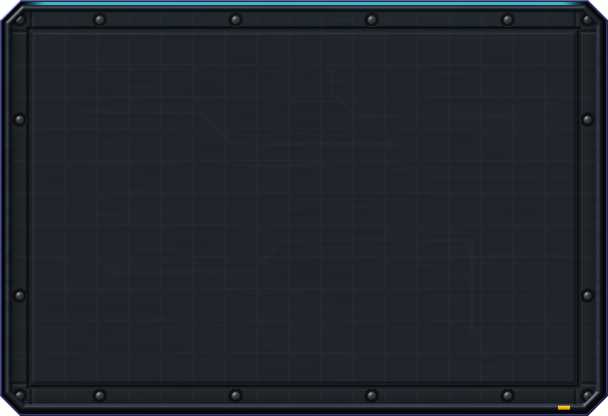
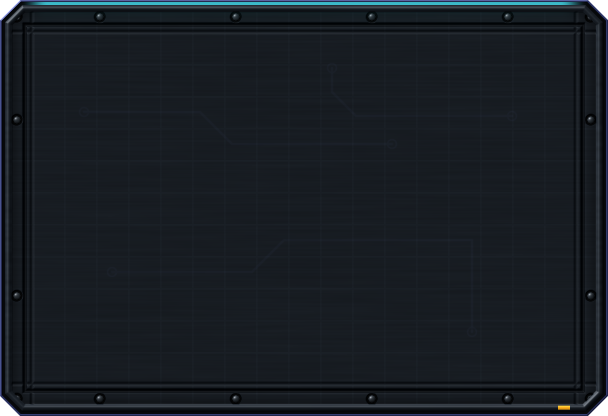
Theme textures: tests for determinism, the 512 KB budget, both shipped copies, seamless repeats, the client's margins and 4.5:1 text on every material; sci-fi plates opaque with their bolts and seam inside the frame, the key's glow inside its rim

Changed region(s): [[0.0312, 0.0312, 0.9688, 0.9688]]

diff --git a/tests/Tabletop.ThemeTextures.Tests/ThemeTextureTests.cs b/tests/Tabletop.ThemeTextures.Tests/ThemeTextureTests.cs
@@ -1,0 +1,136 @@
+using Tabletop.Client.Core;
+using Tabletop.TableTextures;
+
+namespace Tabletop.ThemeTextures.Tests;
+
+public class ThemeTextureTests
+{
+    static readonly string Root = Path.GetFullPath(Path.Combine(AppContext.BaseDirectory, "../../../../.."));
+    public static TheoryData<string, string, int> Files { get { var d = new TheoryData<string, string, int>(); foreach (var s in Themes.All) foreach (var k in Themes.Scales) d.Add(s.Theme, s.Name, k); return d; } }
+    public static TheoryData<string> Ids => new(UiThemes.All.Select(t => t.Id));
+    static Sheet Named(string theme, string name) => Themes.All.Single(s => s.Theme == theme && s.Name == name);
+
+    [Fact]
+    public void The_generator_draws_the_same_image_every_time()
+    {
+        foreach (var sheet in new[] { Named("fantasy", "button"), Named("scifi", "input") })
+            Assert.Equal(sheet.Render(1), sheet.Render(1));
+    }
+
+    /// <summary>The client's and the web app's copies are the same file, within the size budget, and the generator's output (a step per
+    /// channel allowed: MathF's last bits differ between CPUs).</summary>
+    [Theory, MemberData(nameof(Files))]
+    public void The_shipped_image_is_the_generators_output_and_small(string theme, string name, int scale)
+    {
+        var sheet = Named(theme, name);
+        var client = File.ReadAllBytes(Path.Combine(Root, Themes.Client, theme, sheet.File(scale)));
+        Assert.Equal(client, File.ReadAllBytes(Path.Combine(Root, Themes.Web, theme, sheet.File(scale))));
+        Assert.True(client.Length < 512 * 1024, $"{theme}/{sheet.File(scale)} is {client.Length} bytes");
+        var (w, h, shipped) = Png.Read(client);
+        Assert.Equal((sheet.Width * scale, sheet.Height * scale), (w, h));
+        var fresh = sheet.Render(scale); var off = 0;
+        for (var i = 0; i < fresh.Length; i++) if (Math.Abs(fresh[i] - shipped[i]) > 1) off++;
+        Assert.True(off < fresh.Length / 1000, $"{theme}/{sheet.File(scale)} is stale ({off} bytes differ): run scripts/theme-textures");
+    }
+
+    /// <summary>A nine-patch's repeated parts join: the column (row) at the end of the centre differs from the one at its start no more
+    /// than neighbouring columns inside it do. A tile wraps the same way.</summary>
+    [Theory, MemberData(nameof(Ids))]
+    public void Repeated_parts_join_without_a_seam(string id)
+    {
+        foreach (var sheet in Themes.All.Where(s => s.Theme == id && s.Use != Use.Stretch))
+        {
+            var px = sheet.Render(1); int w = sheet.Width, h = sheet.Height, m = sheet.Margin;
+            float Diff(Func<int, int> a, Func<int, int> b, int n, bool column, int from = 0)
+            {
+                var sum = 0f;
+                for (var i = from; i < n; i++)
+                {
+                    var (ka, kb) = column ? ((i * w + a(i)) * 4, (i * w + b(i)) * 4) : ((a(i) * w + i) * 4, (b(i) * w + i) * 4);
+                    for (var c = 0; c < 4; c++) sum += Math.Abs(px[ka + c] - px[kb + c]);
+                }
+                return sum / (n - from);
+            }
+            if (sheet.Use == Use.Tile)
+            {
+                // A tile wraps: its last column beside its first differs no more than two neighbours inside it.
+                var seamX = Diff(_ => w - 1, _ => 0, h, true); var insideX = Diff(_ => w / 2 - 1, _ => w / 2, h, true);
+                var seamY = Diff(_ => h - 1, _ => 0, w, false); var insideY = Diff(_ => h / 2 - 1, _ => h / 2, w, false);
+                Assert.True(seamX <= insideX * 2.5f + 8, $"{id}/{sheet.Name}: across {seamX} vs {insideX}");
+                Assert.True(seamY <= insideY * 2.5f + 8, $"{id}/{sheet.Name}: down {seamY} vs {insideY}");
+                continue;
+            }
+            // A face stretched top to bottom (sci-fi's glass) repeats only across.
+            var stretchedDown = sheet.Name.StartsWith("button") && UiThemes.All.Single(t => t.Id == id).Materials.ButtonStretch;
+            // A nine-patch repeats its centre from column m to w − m: the column that starts the next repeat (the right edge's first, which
+            // Godot and the browser draw after the last repeat) is the centre's first, and the same down. Deliberate joints (a plank end, a
+            // plate seam) repeat with it.
+            for (var k = 0; k < 2; k++)
+            {
+                Assert.True(Diff(_ => m + k, _ => w - m + k, h - m, true, m) <= 6, $"{id}/{sheet.Name}: column {m + k} against {w - m + k}");
+                if (!stretchedDown) Assert.True(Diff(_ => m + k, _ => h - m + k, w - m, false, m) <= 6, $"{id}/{sheet.Name}: row {m + k} against {h - m + k}");
+            }
+        }
+    }
+
+    [Theory, MemberData(nameof(Ids))]
+    public void The_client_reads_each_image_with_its_sheets_margin_and_inset(string id)
+    {
+        var m = UiThemes.All.Single(t => t.Id == id).Materials;
+        foreach (var image in m.NinePatches)
+        {
+            var sheet = Named(id, Path.GetFileNameWithoutExtension(image.Path));
+            Assert.Equal((Use.NinePatch, sheet.Margin, sheet.Inset), (sheet.Use, image.Margin, image.Inset));
+        }
+        Assert.Equal(Named(id, "backdrop-tile").Width, m.TileSize);
+    }
+
+    static double Lin(double c) => c <= 0.04045 ? c / 12.92 : Math.Pow((c + 0.055) / 1.055, 2.4);
+    static double Luminance(Rgba c) => 0.2126 * Lin(c.R) + 0.7152 * Lin(c.G) + 0.0722 * Lin(c.B);
+
+    /// <summary>The lightest and darkest luminance under text: where text sits (inside the frame and the padding), each pixel's 3×3
+    /// mean (a stroke covers several pixels), the image over white for the lightest and over black for the darkest.</summary>
+    static (double Light, double Dark) UnderText(Sheet sheet, int padX, int padY)
+    {
+        var px = sheet.Render(1); int w = sheet.Width;
+        double At(int x, int y, double behind)
+        {
+            var k = (y * w + x) * 4; double a = px[k + 3] / 255.0;
+            double Ch(int c) => Lin(px[k + c] / 255.0) * a + behind * (1 - a);
+            return 0.2126 * Ch(0) + 0.7152 * Ch(1) + 0.0722 * Ch(2);
+        }
+        double light = 0, dark = 1;
+        for (var y = sheet.Inset + padY + 1; y < sheet.Height - sheet.Inset - padY - 1; y++)
+            for (var x = sheet.Inset + padX + 1; x < w - sheet.Inset - padX - 1; x++)
+            {
+                double l = 0, d = 0;
+                for (var j = -1; j <= 1; j++) for (var i = -1; i <= 1; i++) { l += At(x + i, y + j, 1); d += At(x + i, y + j, 0); }
+                light = Math.Max(light, l / 9); dark = Math.Min(dark, d / 9);
+            }
+        return (light, dark);
+    }
+
+    static double Worst(Rgba text, (double Light, double Dark) under)
+    {
+        var t = Luminance(text);
+        return Math.Min((Math.Max(t, under.Light) + 0.05) / (Math.Min(t, under.Light) + 0.05), (Math.Max(t, under.Dark) + 0.05) / (Math.Min(t, under.Dark) + 0.05));
+    }
+
+    /// <summary>Spec 2026-11-21-theme-materials-design.md → Constraints: text on every panel, button face and field reads at 4.5:1 or
+    /// better against the material's lightest (and darkest) area under it.</summary>
+    [Theory, MemberData(nameof(Ids))]
+    public void Text_reads_at_four_and_a_half_to_one_on_every_material(string id)
+    {
+        var t = UiThemes.All.Single(x => x.Id == id);
+        var panel = UnderText(Named(id, "panel"), 8, 8);
+        foreach (var (name, colour) in new[] { ("text", t.Text), ("dim text", t.DimText), ("accent", t.Accent) })
+            Assert.True(Worst(colour, panel) >= 4.5, $"{id}: {name} on the panel is {Worst(colour, panel):0.00}:1");
+        foreach (var face in new[] { "button", "button-hover", "button-pressed", "button-primary" })
+        {
+            var under = UnderText(Named(id, face), 16, 8);
+            Assert.True(Worst(t.ButtonText, under) >= 4.5, $"{id}: button text on {face} is {Worst(t.ButtonText, under):0.00}:1");
+        }
+        var field = UnderText(Named(id, "input"), 8, 8);
+        Assert.True(Worst(t.Materials.FieldText, field) >= 4.5, $"{id}: field text on the input is {Worst(t.Materials.FieldText, field):0.00}:1");
+    }
+}

diff --git a/scripts/ThemeTextures/SciFi.cs b/scripts/ThemeTextures/SciFi.cs
@@ -46,11 +46,11 @@ public static class SciFi
         float lx = Mod(x - PM, Px), ly = Mod(y - PM, Py);
         var between = 0.35f * MathF.Max(Smooth(1.2f, 0.3f, MathF.Min(lx, Px - lx)), Smooth(1.2f, 0.3f, MathF.Min(ly, Py - ly)));
         var edge = MathF.Min(MathF.Min(x, PW - x), MathF.Min(y, PH - y));
-        var seam = MathF.Max(between, Smooth(1.4f, 0.3f, MathF.Abs(edge - 14.5f)));
+        var seam = MathF.Max(between, Smooth(1.4f, 0.3f, MathF.Abs(edge - 12.5f)));
         float ex = MathF.Min(x, PW - x), ey = MathF.Min(y, PH - y), bolt = 99f;
-        if (ex < PM && ey < PM) bolt = new Vector2(ex - 10, ey - 10).Length();
-        else if (ey < PM) bolt = new Vector2(Mod(x - PM, Px / 4f) - Px / 8f, ey - 10).Length();
-        else if (ex < PM) bolt = new Vector2(ex - 10, Mod(y - PM, Py / 2f) - Py / 4f).Length();
+        if (ex < PM && ey < PM) bolt = new Vector2(ex - 8.5f, ey - 8.5f).Length();
+        else if (ey < PM) bolt = new Vector2(Mod(x - PM, Px / 4f) - Px / 8f, ey - 8.5f).Length();
+        else if (ex < PM) bolt = new Vector2(ex - 8.5f, Mod(y - PM, Py / 2f) - Py / 4f).Length();
         return (seam, bolt, bolt);
     }
 
@@ -62,7 +62,7 @@ public static class SciFi
         if (d < 6) return 0.9f * MathF.Sin(MathF.PI * (d - 2.5f) / 3.5f);
         var (seam, bolt, _) = Plate(x, y);
         var h = -0.9f * seam;
-        if (bolt < 3.4f) h = bolt < 2.2f ? Dome(bolt, 2.2f, 0.9f) - 0.3f : -0.7f;
+        if (bolt < 2.8f) h = bolt < 1.8f ? Dome(bolt, 1.8f, 0.9f) - 0.3f : -0.7f;
         return h;
     }
 
@@ -98,10 +98,10 @@ public static class SciFi
         c += Rgb(0.01f, 0.013f, 0.016f) * grid + Chrome * 0.03f * trace;
         var (seam, bolt, _) = Plate(x, y);
         c *= 1 - 0.45f * seam;
-        if (bolt < 3.4f) c = bolt < 2.2f ? Rgb(0.2f, 0.225f, 0.25f) : Rgb(0.03f, 0.035f, 0.04f);
+        if (bolt < 2.8f) c = bolt < 1.8f ? Rgb(0.2f, 0.225f, 0.25f) : Rgb(0.03f, 0.035f, 0.04f);
         var glow = top ? Cyan * 0.07f * MathF.Exp(-(y - 6) / 3f) * Smooth(PCut, PCut + 14, MathF.Min(x, PW - x)) : Vector3.Zero;
         c *= 0.75f + 0.25f * Smooth(6, 11, d);                                                                // the rail's shadow
-        return new(c, 0.96f, bolt < 2.2f ? 0.5f : 0.12f, bolt < 2.2f ? 30 : 14, glow);
+        return new(c, 1, bolt < 1.8f ? 0.5f : 0.12f, bolt < 1.8f ? 30 : 14, glow);
     }
 
     // ---- Buttons ----------------------------------------------------------------------------------------------------------
@@ -138,7 +138,7 @@ public static class SciFi
         var reflection = look == Key.Disabled ? 0 : Smooth(BH * 0.5f, BH * 0.42f, y) * 0.022f;                 // the glass catches the light above
         face += new Vector3(reflection);
         if (look == Key.Pressed) face *= 0.6f + 0.4f * Smooth(3.4f, 9, y);
-        var emit = Cyan * (glow * MathF.Exp(-(d - 3.4f) / 3.2f) + fill);
+        var emit = Cyan * (glow * Smooth(BM - 1.5f, 3.4f, d) * Smooth(BM - 1.5f, 3.4f, d) + fill);   // the glow stays in the face's frame, so the repeat joins
         return new(face, 1, 0.2f, 40, emit);
     }
 
